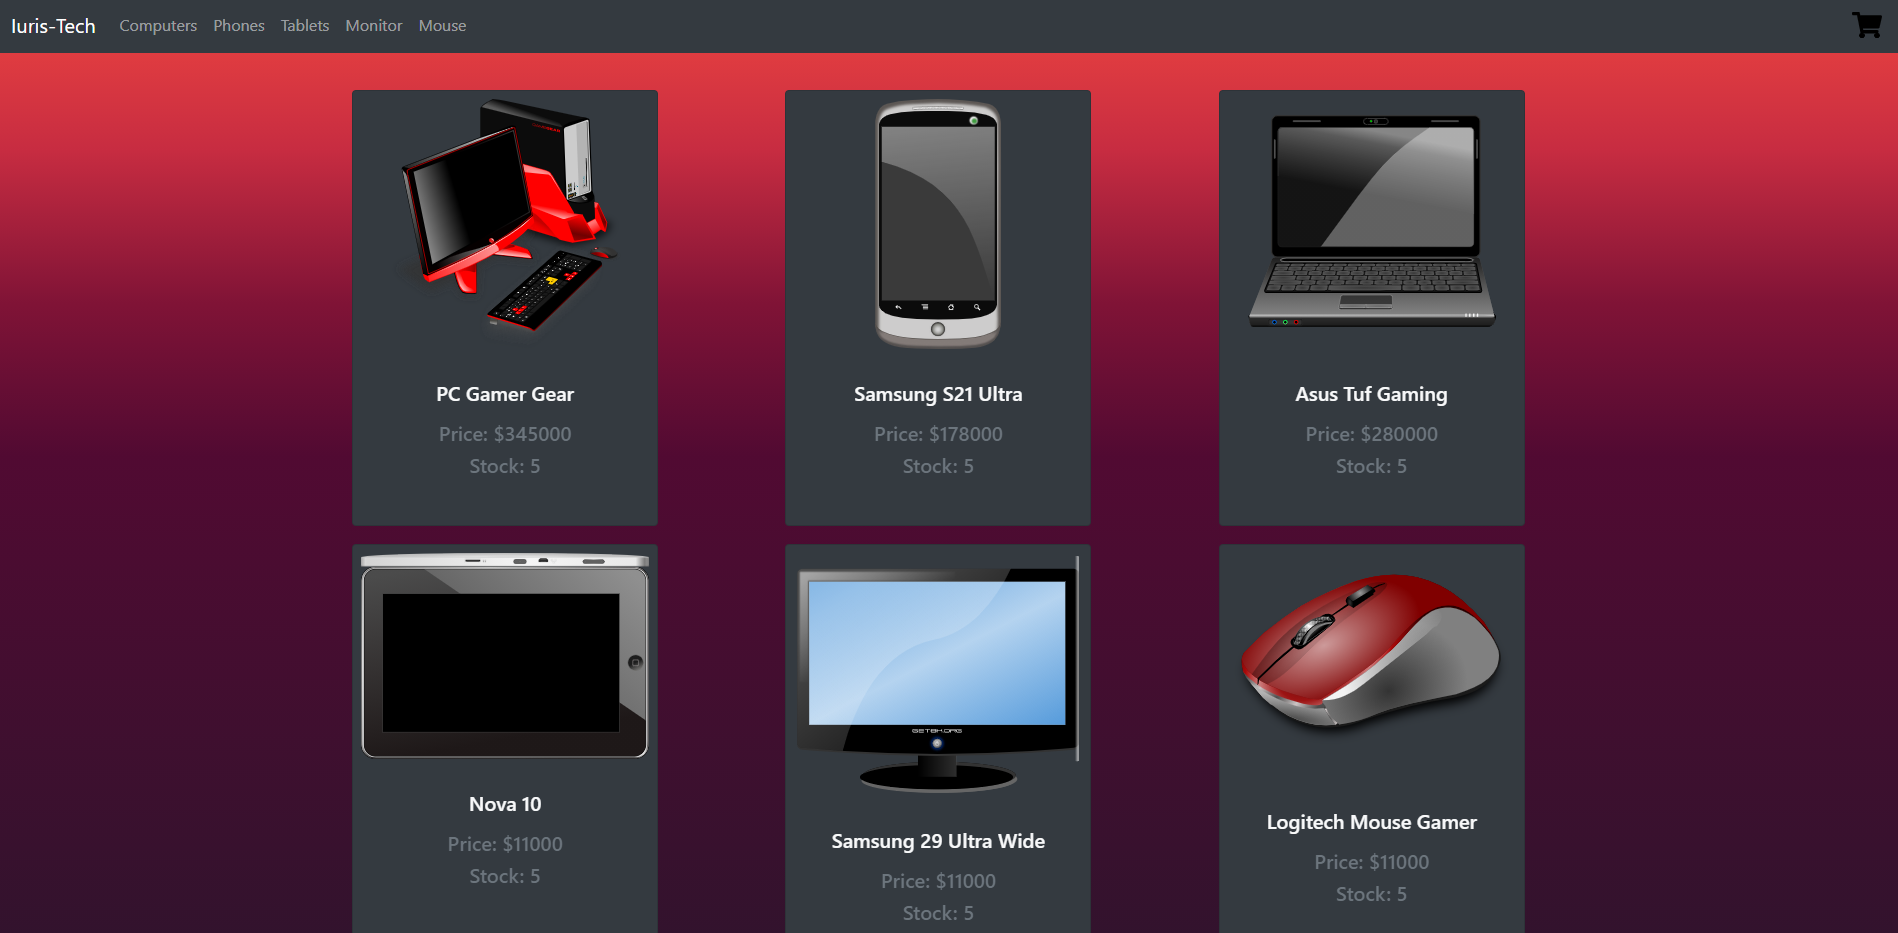
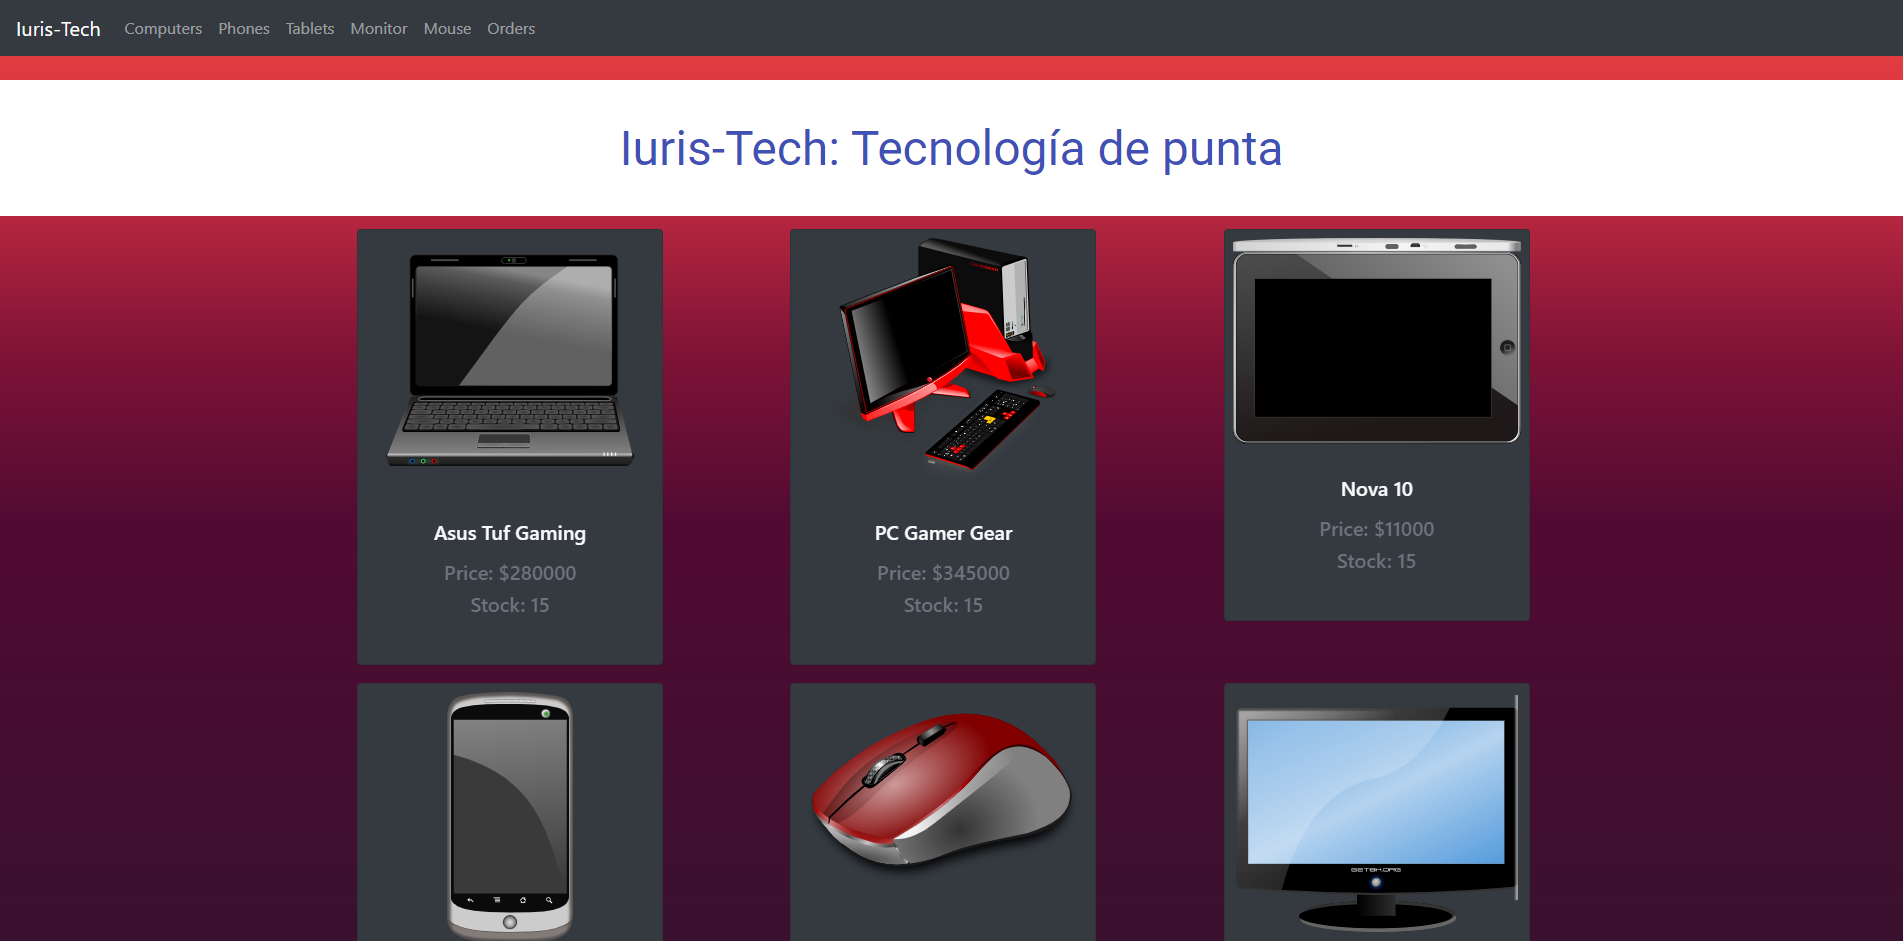
Screenshot

diff --git a/README.md b/README.md
@@ -8,7 +8,7 @@
 
 This project was created with the idea of being an E-commerce for electronic items.
 
-We have 6 products in inventory with a stock of 5 items each.
+We have 6 products in inventory with a stock of 15 items each.
 
 The idea is to classify the categories:
 
